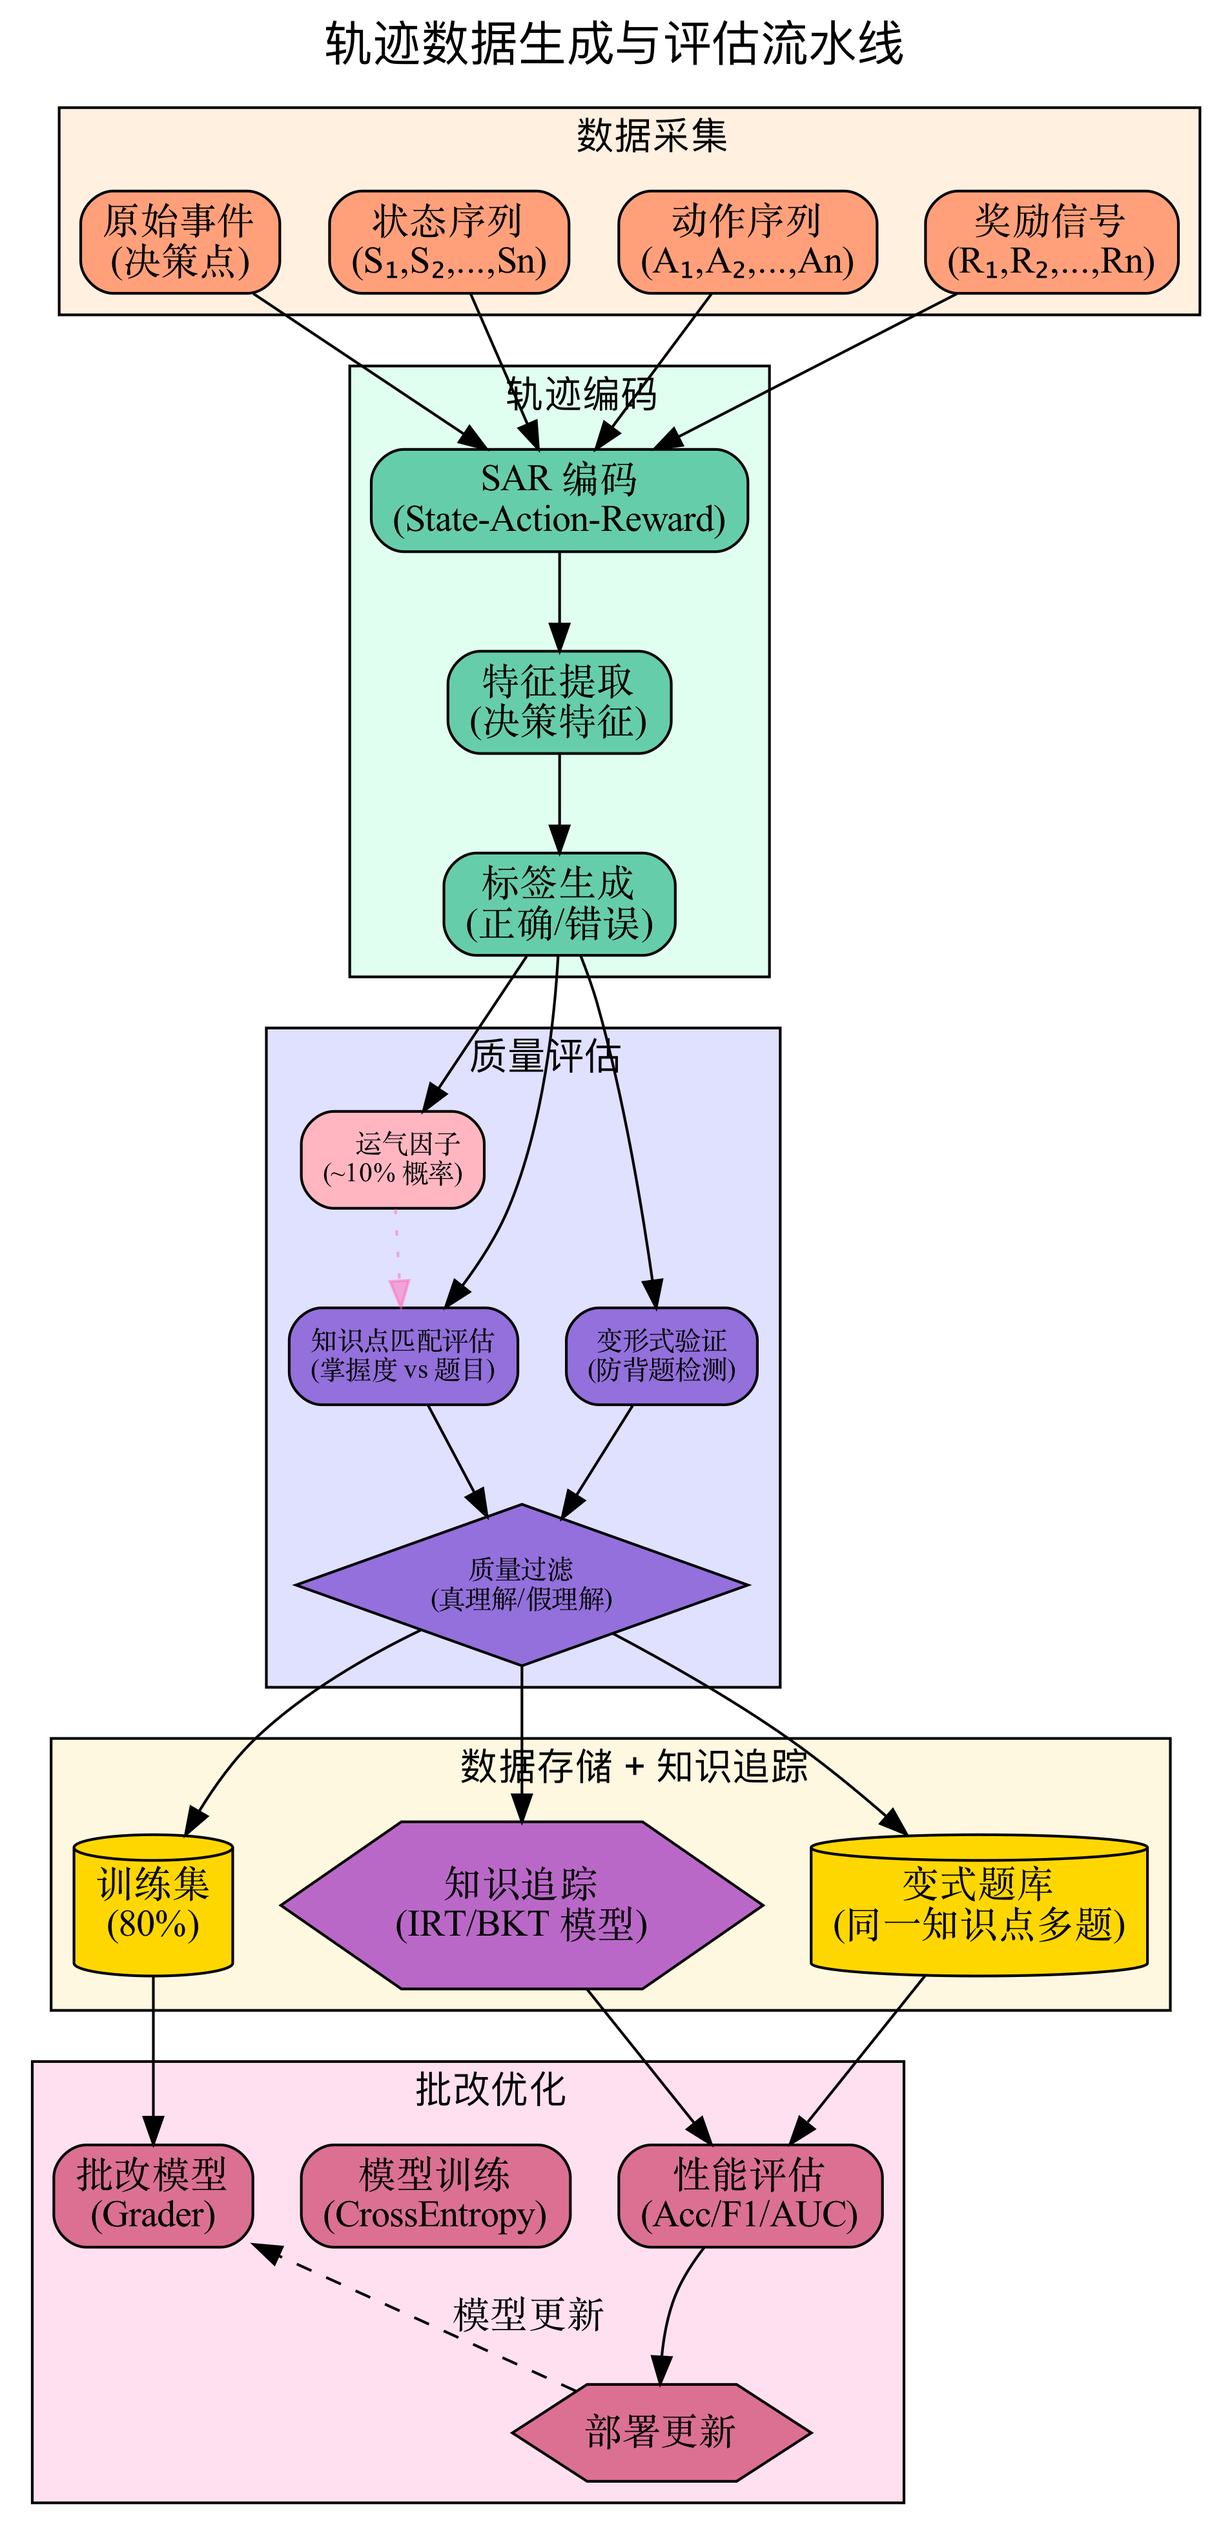
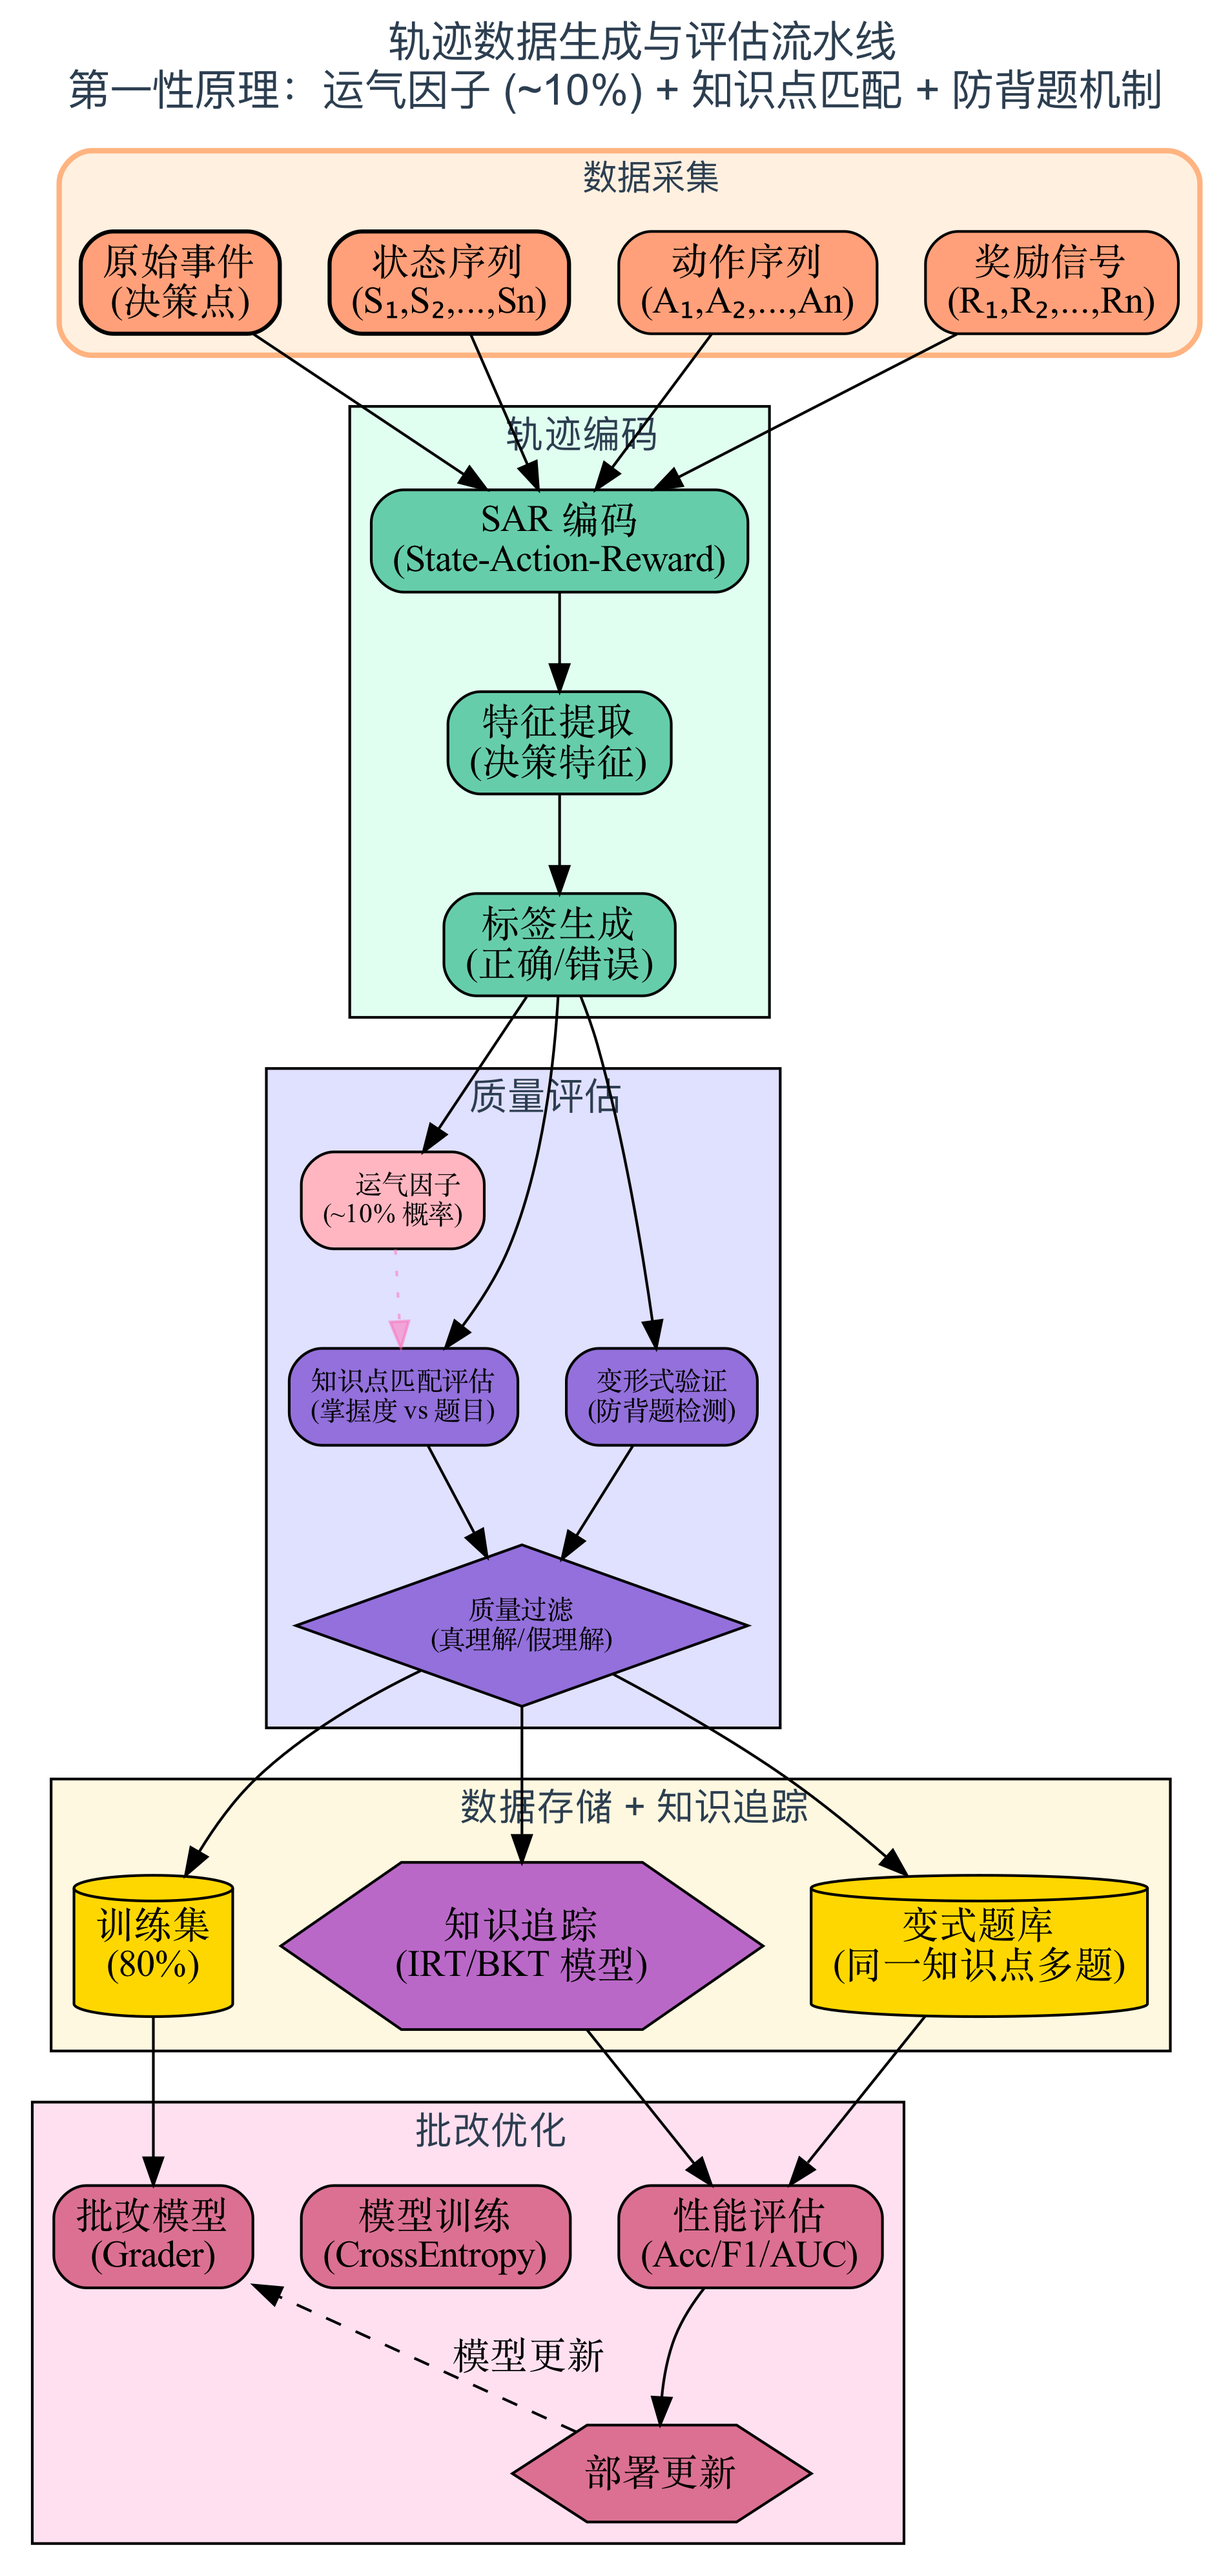
style: 优化架构图视觉设计 - 现代莫兰迪色系
**视觉升级**：
- 采用现代莫兰迪色系，更柔和专业的配色
- 所有 cluster 增加圆角边框和彩色描边
- 节点增加 penwidth 描边，更有层次感
- 标题加入 emoji 图标，更直观易读
-  DPI 300 高清输出

**同步更新**：
- README：运气因子 + 知识点匹配 + 防背题机制说明
- 网站：核心设计原则展示
- 6 张架构图全部更新

Changed region(s): [[0.0309, 0.0, 0.9895, 0.9636]]

diff --git a/generate_sandbox_diagrams.py b/generate_sandbox_diagrams.py
@@ -11,50 +11,69 @@ def generate_sandbox_architecture():
     dot = Digraph('Sandbox Architecture', format='png', engine='dot')
     dot.attr(
         rankdir='TB',
-        size='20,16',
+        size='24,18',
         dpi='300',
         bgcolor='transparent',
         fontname='Arial',
-        label='''人生学习沙盒 v2.0 - 完整架构
-仿真环境 + 攻击/防守 + 轨迹生成 + 评估优化''',
+        label='''🎯 人生学习沙盒 v2.0 - 完整架构
+从第一性原理出发：运气因子 (~10%) + 知识点匹配 + 防背题机制''',
         labelloc='t',
-        fontsize='20',
+        fontsize='18',
+        fontcolor='#2C3E50',
     )
 
-    # 颜色方案
+    # 现代莫兰迪色系
     colors = {
-        'env': '#E8F4F8',      # 仿真环境
-        'agent': '#E8F8E8',    # 智能体
-        'attack': '#F8E8E8',   # 攻击
-        'defense': '#E8E8F8',  # 防御
-        'trajectory': '#F8F0E8', # 轨迹
-        'eval': '#F0E8F8',     # 评估
-        'data': '#FFF8E8',     # 数据
+        'input': '#F5E6E8',      # 输入层 - 淡粉
+        'env': '#E8F4F8',        # 仿真 - 淡蓝
+        'attack': '#FCE8E6',     # 攻击 - 淡红
+        'defense': '#E6E8F4',    # 防御 - 淡紫
+        'trajectory': '#F8F0E6', # 轨迹 - 淡橙
+        'eval': '#F0E8F4',       # 评估 - 淡紫
+        'data': '#FFF4E6',       # 数据 - 淡黄
+    }
+
+    # 节点通用样式
+    node_attrs = {
+        'style': 'filled,rounded',
+        'penwidth': '1.5',
+        'fontname': 'Arial',
     }
 
     # === 第 1 层：用户输入 ===
     with dot.subgraph(name='cluster_input') as s:
-        s.attr(label='用户输入层', style='filled', fillcolor='#FFF5F5', fontsize='14')
-        s.node('user_profile', '用户画像\n(年龄/阶段/偏好)', shape='box', style='filled,rounded', fillcolor='#FFB6C1')
-        s.node('skill_config', '技能配置\n(初始技能树)', shape='box', style='filled,rounded', fillcolor='#FFB6C1')
-        s.node('env_config', '环境配置\n(难度/随机种子)', shape='box', style='filled,rounded', fillcolor='#FFB6C1')
+        s.attr(label='👤 用户输入层', style='filled,rounded', fillcolor=colors['input'],
+               fontsize='13', penwidth='2', color='#E0B0B8')
+        s.node('user_profile', '用户画像\n(年龄/阶段/偏好)', shape='box',
+               style='filled,rounded', fillcolor='#FFB6C1', penwidth='1.5')
+        s.node('skill_config', '技能配置\n(初始技能树)', shape='box',
+               style='filled,rounded', fillcolor='#FFB6C1', penwidth='1.5')
+        s.node('env_config', '环境配置\n(难度/随机种子)', shape='box',
+               style='filled,rounded', fillcolor='#FFB6C1', penwidth='1.5')
 
     # === 第 2 层：仿真环境 ===
     with dot.subgraph(name='cluster_simulation') as s:
-        s.attr(label='仿真环境层', style='filled', fillcolor=colors['env'], fontsize='14')
-
-        s.node('stage_engine', '阶段引擎\n(7 人生阶段)', shape='box', style='filled,rounded', fillcolor='#4ECDC4')
-        s.node('event_generator', '事件生成器\n(随机/ scripted)', shape='box', style='filled,rounded', fillcolor='#4ECDC4')
-        s.node('choice_system', '选择系统\n(分支决策)', shape='box', style='filled,rounded', fillcolor='#4ECDC4')
-        s.node('skill_tracker', '技能追踪器\n(EXP/Level)', shape='box', style='filled,rounded', fillcolor='#4ECDC4')
+        s.attr(label='🌍 仿真环境层', style='filled,rounded', fillcolor=colors['env'],
+               fontsize='13', penwidth='2', color='#7EC8E3')
+        s.node('stage_engine', '阶段引擎\n(7 人生阶段)', shape='box',
+               style='filled,rounded', fillcolor='#4ECDC4', penwidth='1.5')
+        s.node('event_generator', '事件生成器\n(随机/脚本)', shape='box',
+               style='filled,rounded', fillcolor='#4ECDC4', penwidth='1.5')
+        s.node('choice_system', '选择系统\n(分支决策)', shape='box',
+               style='filled,rounded', fillcolor='#4ECDC4', penwidth='1.5')
+        s.node('skill_tracker', '技能追踪器\n(EXP/Level)', shape='box',
+               style='filled,rounded', fillcolor='#4ECDC4', penwidth='1.5')
 
     # === 第 3 层：攻击模块 ===
     with dot.subgraph(name='cluster_attack') as s:
-        s.attr(label='攻击模块 (Adversarial)', style='filled', fillcolor=colors['attack'], fontsize='14')
-
-        s.node('attack_gen', '攻击生成器', shape='box', style='filled,rounded', fillcolor='#FF6B6B', fontcolor='white')
-        s.node('noise_inject', '噪声注入\n(模糊/涂抹/遮挡)', shape='box', style='filled,rounded', fillcolor='#FF6B6B', fontcolor='white')
-        s.node('adv_perturb', '对抗扰动\n(FGSM/PGD)', shape='box', style='filled,rounded', fillcolor='#FF6B6B', fontcolor='white')
+        s.attr(label='🔴 攻击模块 (Adversarial)', style='filled,rounded', fillcolor=colors['attack'],
+               fontsize='13', penwidth='2', color='#E88080')
+        s.node('attack_gen', '攻击生成器', shape='box',
+               style='filled,rounded', fillcolor='#FF6B6B', fontcolor='white', penwidth='1.5')
+        s.node('noise_inject', '噪声注入\n(模糊/涂抹/遮挡)', shape='box',
+               style='filled,rounded', fillcolor='#FF6B6B', fontcolor='white', penwidth='1.5')
+        s.node('adv_perturb', '对抗扰动\n(FGSM/PGD)', shape='box',
+               style='filled,rounded', fillcolor='#FF6B6B', fontcolor='white', penwidth='1.5')
         s.node('logic_attack', '逻辑攻击\n(矛盾/陷阱)', shape='box', style='filled,rounded', fillcolor='#FF6B6B', fontcolor='white')
 
     # === 第 4 层：防御模块 ===
@@ -234,20 +253,25 @@ def generate_trajectory_pipeline():
     dot = Digraph('Trajectory Pipeline', format='png', engine='dot')
     dot.attr(
         rankdir='TB',
-        size='16,20',
+        size='20,24',
         dpi='300',
         bgcolor='transparent',
         fontname='Arial',
-        label='轨迹数据生成与评估流水线',
+        label='''📊 轨迹数据生成与评估流水线
+第一性原理：运气因子 (~10%) + 知识点匹配 + 防背题机制''',
         labelloc='t',
-        fontsize='18',
+        fontsize='16',
+        fontcolor='#2C3E50',
     )
 
     # 阶段 1: 数据采集
     with dot.subgraph(name='cluster_collect') as s:
-        s.attr(label='📥 数据采集', style='filled', fillcolor='#FFF0E0', fontsize='14')
-        s.node('raw_events', '原始事件\n(决策点)', shape='box', style='filled,rounded', fillcolor='#FFA07A')
-        s.node('raw_states', '状态序列\n(S₁,S₂,...,Sn)', shape='box', style='filled,rounded', fillcolor='#FFA07A')
+        s.attr(label='📥 数据采集', style='filled,rounded', fillcolor='#FFF0E0',
+               fontsize='13', penwidth='2', color='#FFB380')
+        s.node('raw_events', '原始事件\n(决策点)', shape='box',
+               style='filled,rounded', fillcolor='#FFA07A', penwidth='1.5')
+        s.node('raw_states', '状态序列\n(S₁,S₂,...,Sn)', shape='box',
+               style='filled,rounded', fillcolor='#FFA07A', penwidth='1.5')
         s.node('raw_actions', '动作序列\n(A₁,A₂,...,An)', shape='box', style='filled,rounded', fillcolor='#FFA07A')
         s.node('raw_rewards', '奖励信号\n(R₁,R₂,...,Rn)', shape='box', style='filled,rounded', fillcolor='#FFA07A')
 
